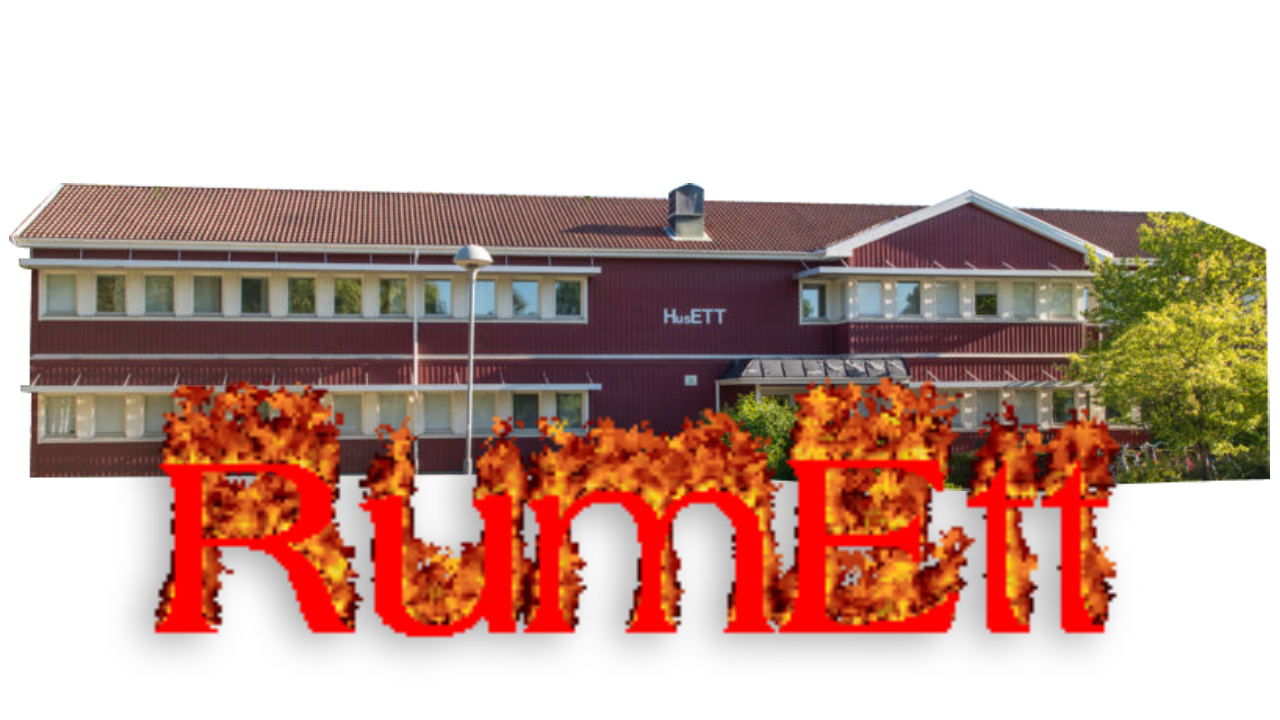
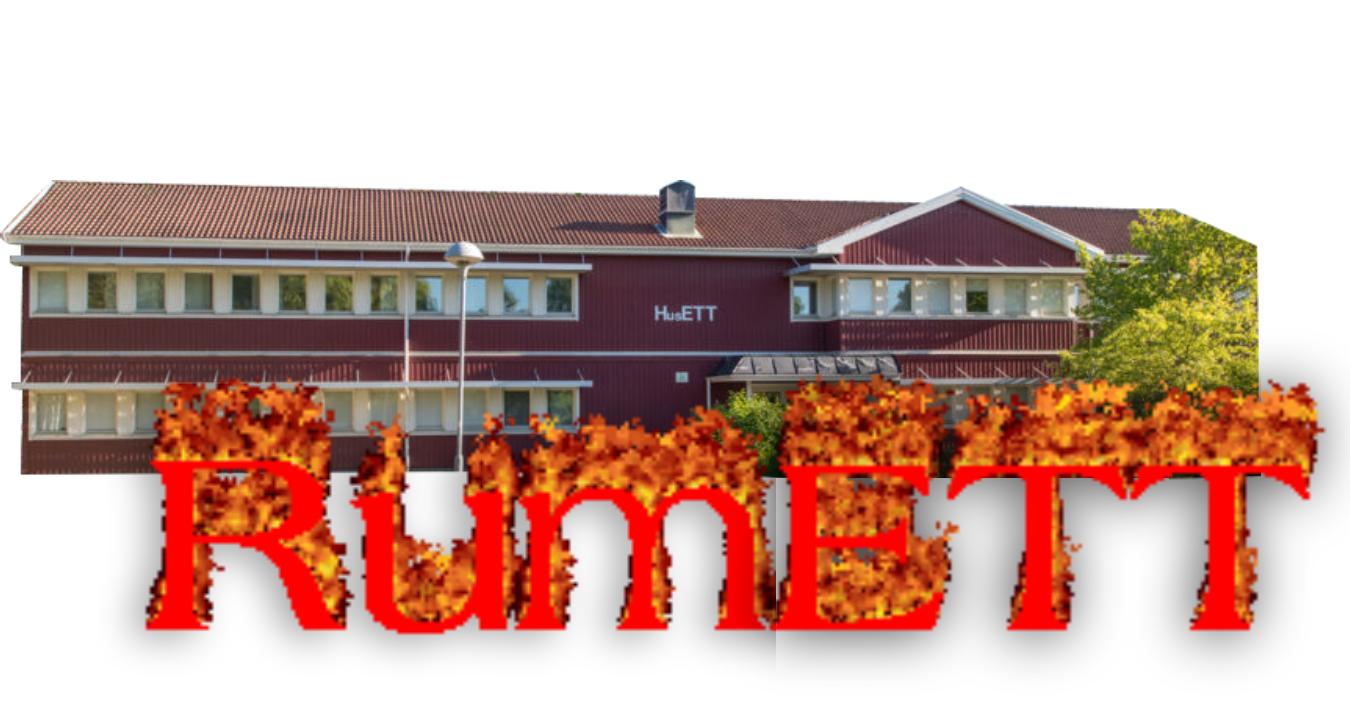
HusEtt -> HusETT

diff --git a/src/components/lockPage.js b/src/components/lockPage.js
@@ -198,7 +198,7 @@ const BettanPage = () => {
         <LockItem
           className={lockItemClass}
           logo={rumett}
-          displayName="RumEtt"
+          displayName="RumETT"
           lockName="Configura"
         ></LockItem>
       </GridContainer>
